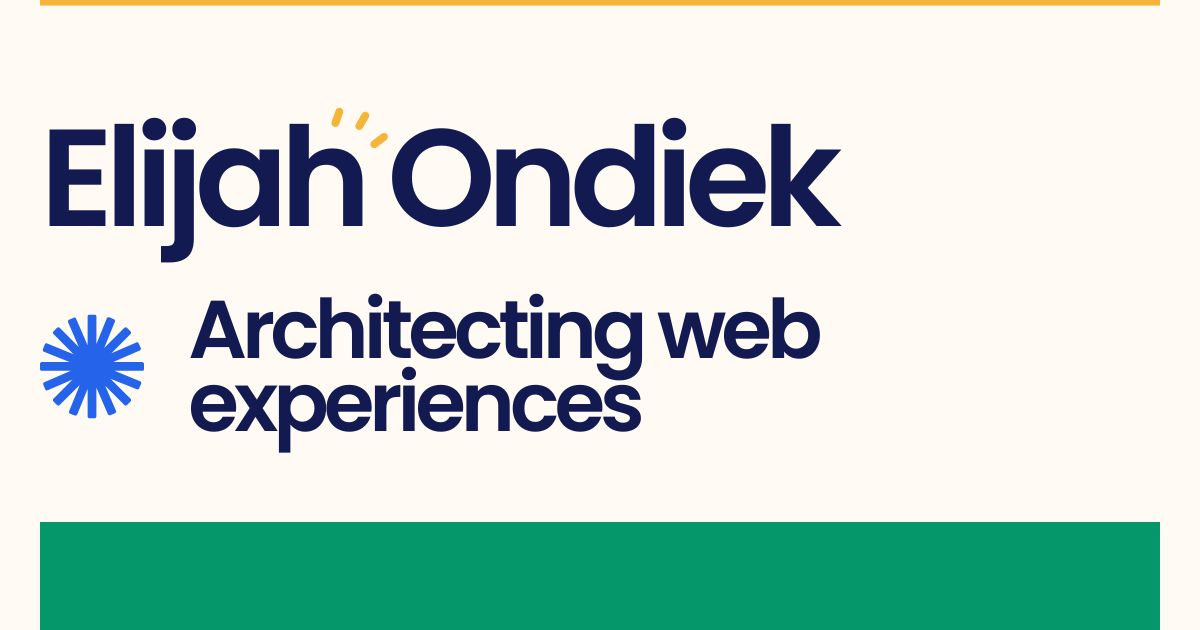
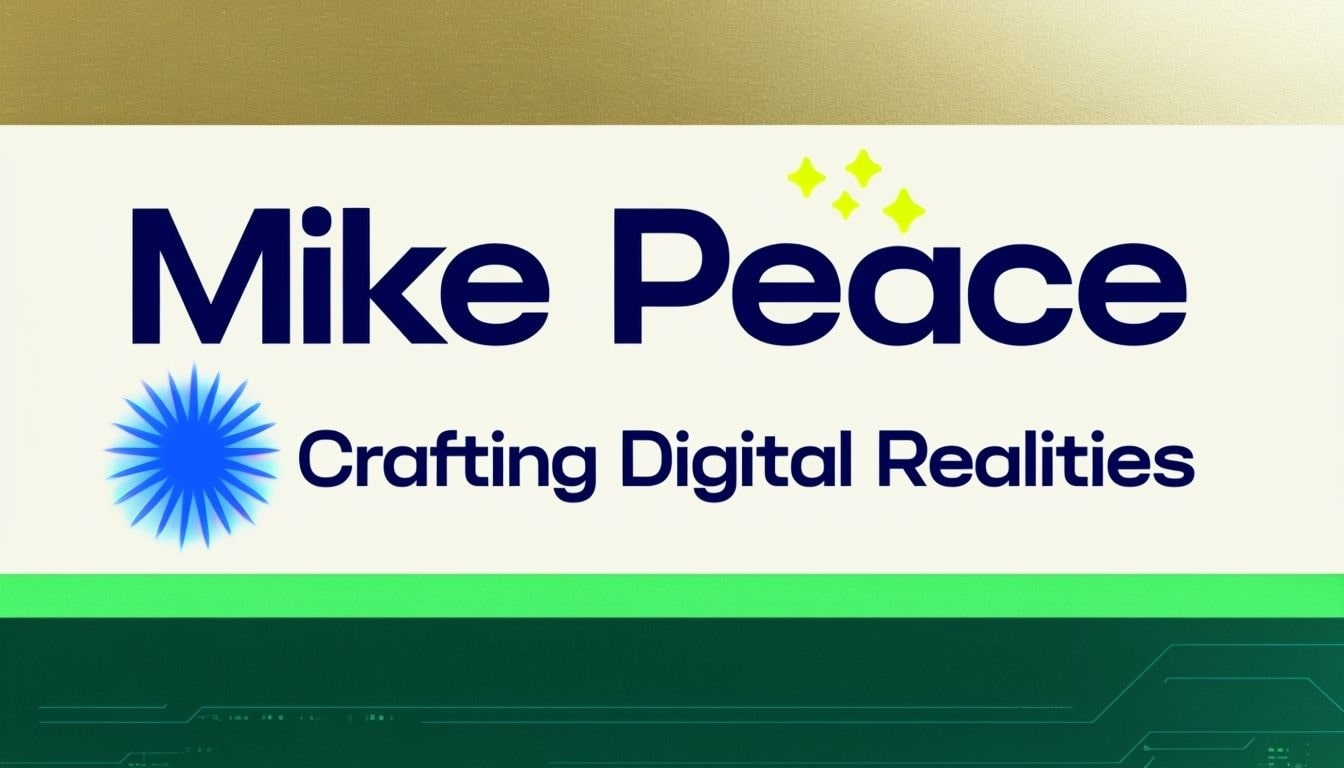
updates

diff --git a/components/projects-sidebar.tsx b/components/projects-sidebar.tsx
@@ -118,7 +118,7 @@ const projects: Project[] = [
     difficulty: "Advanced",
     status: "Live",
     image: "/projects/katiba360.png",
-    githubUrl: "https://github.com/elijahondiek/katiba360",
+    githubUrl: "https://github.com/Quantumania23/katiba360",
     liveUrl: "https://katiba360.com/",
     challenges: ["Simplifying complex legal language", "Multi-language support", "Accessible design for all devices including feature phones"],
     solutions: ["Plain language rewriting", "i18n implementation for multiple languages", "Progressive enhancement for broad device support"],
@@ -225,7 +225,7 @@ const projects: Project[] = [
     difficulty: "Intermediate",
     status: "Live",
     image: "/projects/full-circle.png",
-    githubUrl: "https://github.com/elijahondiek/fullcircle-health-and-fitness",
+    githubUrl: "https://fullcirclehealthandfitness.vercel.app/",
     liveUrl: "https://fullcirclehealthandfitness.vercel.app/",
     challenges: ["SEO optimization", "Content management", "Performance optimization"],
     solutions: ["Static site generation", "Image optimization", "Structured data markup"],
@@ -246,7 +246,7 @@ const projects: Project[] = [
     difficulty: "Beginner",
     status: "Live",
     image: "/projects/triotech.png",
-    githubUrl: "https://github.com/elijahondiek/triotech-website",
+    githubUrl: "https://triotech-website.vercel.app/",
     liveUrl: "https://triotech-website.vercel.app/",
     challenges: ["Professional design", "Performance optimization", "Contact form integration"],
     solutions: ["Modern UI/UX design", "Image optimization", "Serverless form handling"],
@@ -309,7 +309,7 @@ const projects: Project[] = [
     difficulty: "Intermediate",
     status: "Live",
     image: "/projects/teksade.png",
-    githubUrl: "https://github.com/elijahondiek/Teksade-The-Tech-Community-HQ",
+    githubUrl: "https://github.com/Quantumania23/Teksade-The-Tech-Community-HQ",
     liveUrl: "https://teksade.vercel.app/",
     challenges: ["Community data organization", "User authentication", "Real-time updates", "Image storage"],
     solutions: ["Prisma ORM for data modeling", "Clerk for user management", "TRPC for type-safe APIs", "Firebase for image storage"],
@@ -373,8 +373,8 @@ const projects: Project[] = [
     difficulty: "Advanced",
     status: "Live",
     image: "/projects/Message-Driven E-commerce Architecture.png",
-    githubUrl: "https://github.com/elijahondiek/AWS-Serverless-API",
-    liveUrl: "https://github.com/elijahondiek/AWS-Serverless-API",
+    githubUrl: "https://github.com/Quantumania23/AWS-Serverless-API",
+    liveUrl: "https://github.com/Quantumania23/AWS-Serverless-API",
     challenges: ["Cold start optimization", "Cost management", "Data consistency"],
     solutions: ["Connection pooling", "Reserved concurrency", "DynamoDB transactions"],
     features: ["Automated categorization", "Spending analytics", "Receipt scanning", "Budget alerts"],
@@ -398,7 +398,7 @@ const projects: Project[] = [
     difficulty: "Intermediate",
     status: "Creation",
     image: "/projects/Nested Comments Engine.png",
-    githubUrl: "hhttps://github.com/elijahondiek/Dynamic-Nested-Reply-Platform",
+    githubUrl: "hhttps://github.com/Quantumania23/Dynamic-Nested-Reply-Platform",
     challenges: ["Nested comment structure", "Performance optimization", "Real-time updates"],
     solutions: ["Recursive query optimization", "Database indexing", "WebSocket implementation"],
     features: ["Nested comments", "User moderation", "Real-time updates", "Vote system"],

diff --git a/app/layout.tsx b/app/layout.tsx
@@ -94,8 +94,8 @@ const baseUrl = isProduction
       card: 'summary_large_image',
       title: "Mike Peace | Software Engineer",
       description: "Professional software engineer specializing in modern web technologies, scalable full-stack solutions, and clean architecture.",
-      creator: '@0chibo_',
-      site: '@0chibo_',
+      creator: '@Mikepeace981',
+      site: '@Mikepeace981',
       images: [
         {
           url: '/og-image.jpg',
